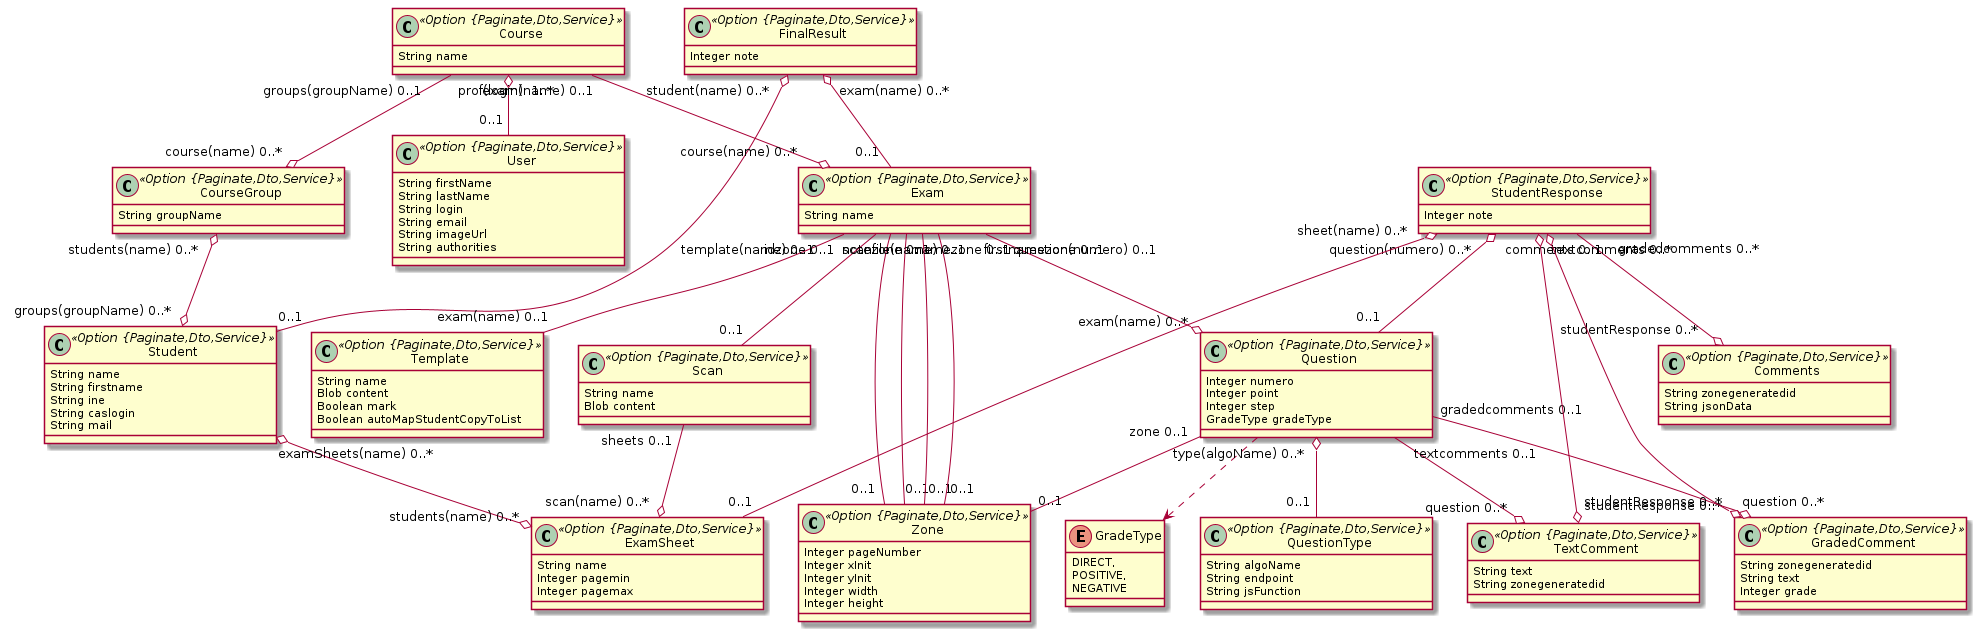
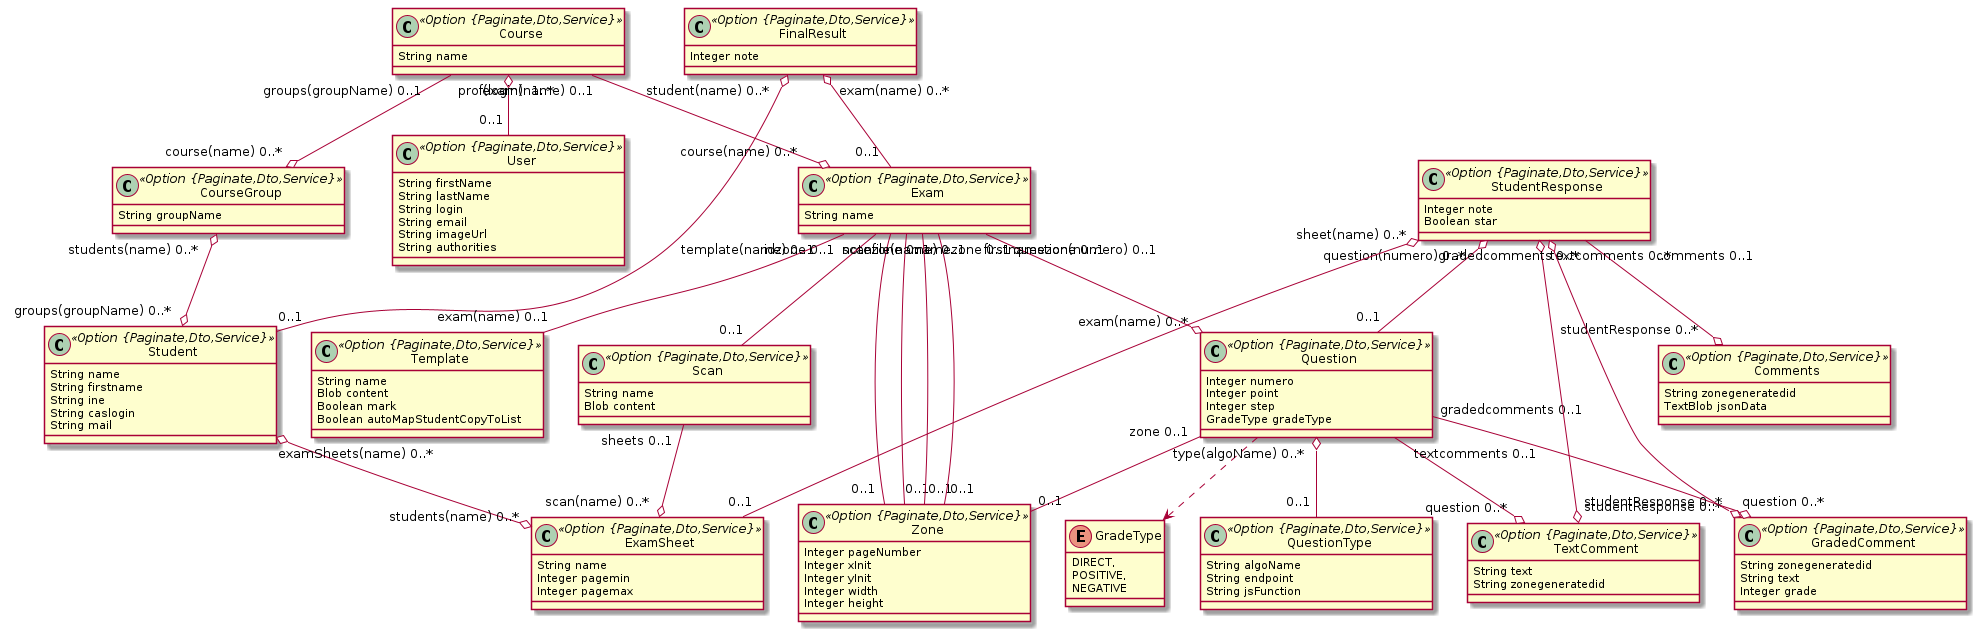
update model

Changed region(s): [[0.6483, 0.2409, 0.8952, 0.4216], [0.8335, 0.6323, 0.8952, 0.6624], [0.8026, 0.7829, 0.8644, 0.813]]

diff --git a/src/main/java/fr/istic/domain/StudentResponse.java b/src/main/java/fr/istic/domain/StudentResponse.java
@@ -31,6 +31,9 @@ public class StudentResponse extends PanacheEntityBase implements Serializable {
     @Column(name = "note")
     public Integer note;
 
+    @Column(name = "star")
+    public Boolean star;
+
     @OneToMany(mappedBy = "studentResponse")
     public Set<Comments> comments = new HashSet<>();
 
@@ -83,6 +86,7 @@ public class StudentResponse extends PanacheEntityBase implements Serializable {
         return "StudentResponse{" +
             "id=" + id +
             ", note=" + note +
+            ", star='" + star + "'" +
             "}";
     }
 
@@ -101,6 +105,7 @@ public class StudentResponse extends PanacheEntityBase implements Serializable {
         var entity = StudentResponse.<StudentResponse>findById(studentResponse.id);
         if (entity != null) {
             entity.note = studentResponse.note;
+            entity.star = studentResponse.star;
             entity.comments = studentResponse.comments;
             entity.question = studentResponse.question;
             entity.sheet = studentResponse.sheet;

diff --git a/src/main/java/fr/istic/service/CommentsService.java b/src/main/java/fr/istic/service/CommentsService.java
@@ -54,7 +54,7 @@ public class CommentsService {
     public Optional<CommentsDTO> findOne(Long id) {
         log.debug("Request to get Comments : {}", id);
         return Comments.findByIdOptional(id)
-            .map(comments -> commentsMapper.toDto((Comments) comments)); 
+            .map(comments -> commentsMapper.toDto((Comments) comments));
     }
 
     /**
@@ -67,6 +67,17 @@ public class CommentsService {
         return new Paged<>(Comments.findAll().page(page))
             .map(comments -> commentsMapper.toDto((Comments) comments));
     }
+    /**
+     * Get all the comments.
+     * @param page the pagination information.
+     * @return the list of entities.
+     */
+    public Paged<CommentsDTO> findCommentsbyZonegeneratedid(Page page, String zonegeneratedid) {
+        log.debug("Request to get all Comments");
+        return new Paged<>(Comments.findCommentsbyZonegeneratedid(zonegeneratedid).page(page))
+            .map(comments -> commentsMapper.toDto((Comments) comments));
+    }
+
 
 
 

diff --git a/src/main/java/fr/istic/web/rest/CommentsResource.java b/src/main/java/fr/istic/web/rest/CommentsResource.java
@@ -107,7 +107,16 @@ public class CommentsResource {
         log.debug("REST request to get a page of Comments");
         var page = pageRequest.toPage();
         var sort = sortRequest.toSort();
-        Paged<CommentsDTO> result = commentsService.findAll(page);
+        Paged<CommentsDTO> result = null;
+        MultivaluedMap param = uriInfo.getQueryParameters();
+        if (param.containsKey("zonegeneratedid")) {
+            List<String> zonegeneratedid = (List<String>) param.get("zonegeneratedid");
+            result = commentsService.findCommentsbyZonegeneratedid(page,  zonegeneratedid.get(0));
+        }
+        else {
+
+            result =commentsService.findAll(page);
+        }
         var response = Response.ok().entity(result.content);
         response = PaginationUtil.withPaginationInfo(response, uriInfo, result);
         return response.build();

diff --git a/src/main/java/fr/istic/domain/Comments.java b/src/main/java/fr/istic/domain/Comments.java
@@ -28,6 +28,7 @@ public class Comments extends PanacheEntityBase implements Serializable {
     @Column(name = "zonegeneratedid")
     public String zonegeneratedid;
 
+    @Lob
     @Column(name = "json_data")
     public String jsonData;
 
@@ -95,6 +96,11 @@ public class Comments extends PanacheEntityBase implements Serializable {
             return update(comments);
         }
     }
+
+    public static PanacheQuery<Comments> findCommentsbyZonegeneratedid( String zonegeneratedid) {
+        return find("select c from Comments c where c.zonegeneratedid =?1", zonegeneratedid);
+    }
+
 
 
 }

diff --git a/src/main/java/fr/istic/service/dto/StudentResponseDTO.java b/src/main/java/fr/istic/service/dto/StudentResponseDTO.java
@@ -17,6 +17,8 @@ public class StudentResponseDTO implements Serializable {
 
     public Integer note;
 
+    public Boolean star;
+
     public Long questionId;
     public String questionNumero;
     public Long sheetId;
@@ -46,6 +48,7 @@ public class StudentResponseDTO implements Serializable {
         return "StudentResponseDTO{" +
             "id=" + id +
             ", note=" + note +
+            ", star='" + star + "'" +
             ", questionId=" + questionId +
             ", questionNumero='" + questionNumero + "'" +
             ", sheetId=" + sheetId +
